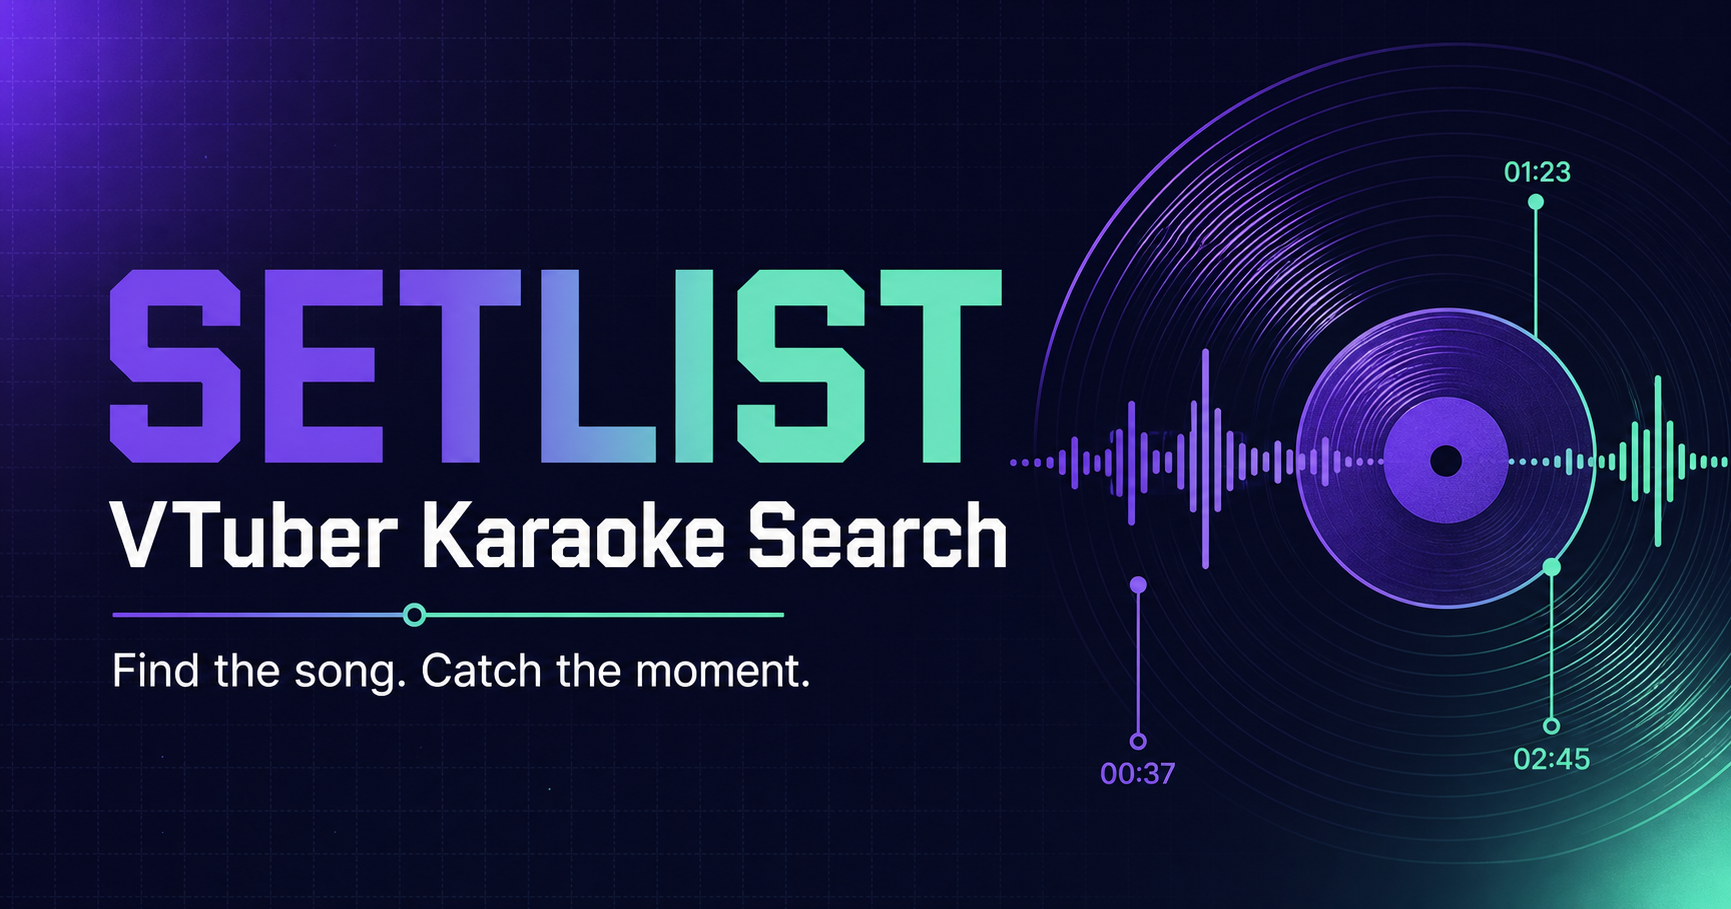
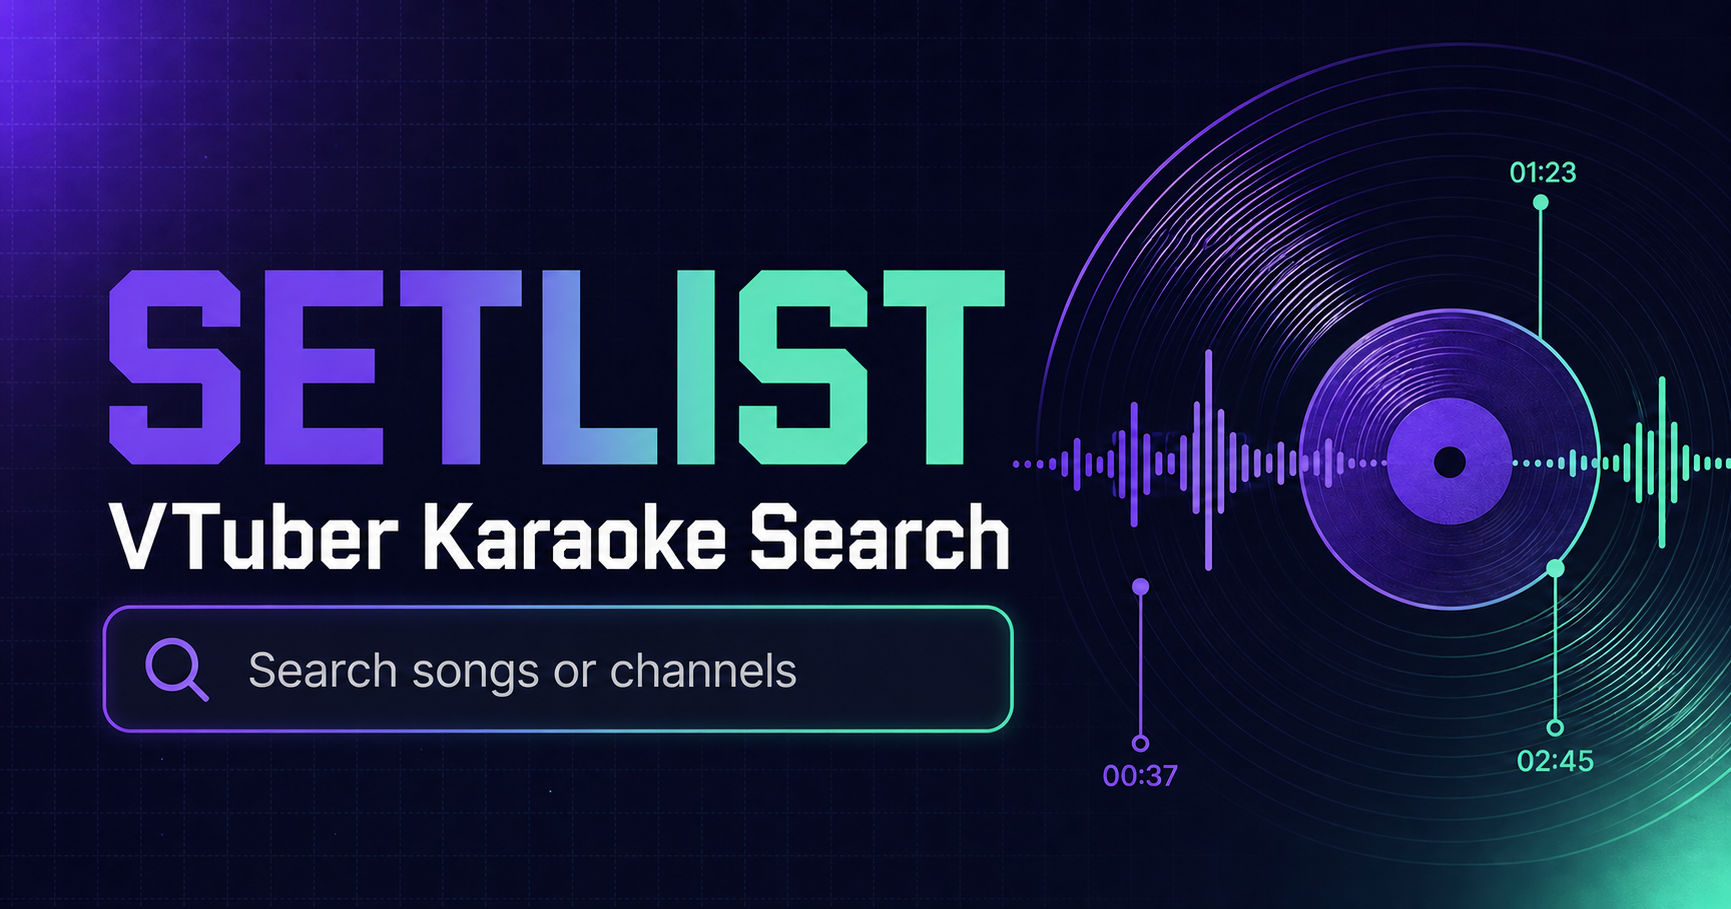
chore(release): v0.4.3 (#39)
* chore(release): v0.4.3

* docs: align copy with search-first design

* fix: correct social preview metadata

---------

diff --git a/frontend/index.html b/frontend/index.html
@@ -26,14 +26,14 @@
     />
     <meta property="og:url" content="__PUBLIC_SITE_URL__" />
     <meta property="og:image" content="__PUBLIC_SITE_URL__/og.png" />
-    <meta property="og:image:width" content="1732" />
+    <meta property="og:image:width" content="1731" />
     <meta property="og:image:height" content="909" />
     <meta property="og:image:alt" content="Setlist — VTuber Karaoke Search" />
     <meta name="twitter:card" content="summary_large_image" />
     <meta name="twitter:title" content="Setlist — VTuber Karaoke Search" />
     <meta
       name="twitter:description"
-      content="Find the song. Catch the moment."
+      content="Search VTuber karaoke setlists and open YouTube at the saved timestamp."
     />
     <meta name="twitter:image" content="__PUBLIC_SITE_URL__/og.png" />
     <meta
@@ -61,7 +61,7 @@
           "@type": "SearchAction",
           "target": {
             "@type": "EntryPoint",
-            "urlTemplate": "__PUBLIC_SITE_URL__/?q={search_term_string}"
+            "urlTemplate": "__PUBLIC_SITE_URL__/search?q={search_term_string}"
           },
           "query-input": "required name=search_term_string"
         }

diff --git a/frontend/README.md b/frontend/README.md
@@ -94,13 +94,13 @@ proxy.
 
 | Path | API |
 |------|-----|
-| `/` | Focused song-title entry point that routes submitted terms to `/search` |
-| `/search` | Submit-only `GET /v1/songs/search`; 500 ms debounced `GET /v1/songs/suggestions` while typing (both support repeated channel, type, and date filters) |
-| `/songs/$songId` | `GET /v1/songs/{id}` |
-| `/channels` | `GET /v1/channels` |
+| `/` | Search-focused entry point with title suggestions, a compact collection summary, and a route to `/search` |
+| `/search` | Grid results from `GET /v1/songs/search`; 500 ms debounced suggestions while typing; repeated channel, type, and date filters apply to both requests |
+| `/songs/$songId` | `GET /v1/songs/{id}`; contextual back navigation restores the prior search or video page |
+| `/channels` | Grid view from `GET /v1/channels` |
 | `/channels/new` | Administrator-only `POST /v1/channels` |
-| `/channels/$channelId` | `GET /v1/channels/{id}` + `/videos`; administrator refresh control |
-| `/videos/$videoId` | `GET /v1/videos/{id}` + `/songs`; administrator reload control |
+| `/channels/$channelId` | Grid view from `GET /v1/channels/{id}` + `/videos`; cards open details and expose a separate untimestamped YouTube action |
+| `/videos/$videoId` | `GET /v1/videos/{id}` + `/songs`; timestamped setlist rows open YouTube and expose a separate song-detail action |
 | `/admin/login` | `GET /v1/auth/session`; `POST /v1/auth/login` |
 | `/status` | Administrator-only `GET /v1/updater/status` |
 | `/summary` | `GET /v1/report/summary` |
@@ -134,6 +134,9 @@ Source messages live in `messages/en.json`, `messages/zh-hant.json`, and
 - `VITE_PUBLIC_SITE_URL` sets the canonical Open Graph origin.
 - `VITE_APP_VERSION` optionally overrides the footer build version.
 - `public/og.png` is the social preview image.
+
+Keep public metadata and social-preview copy factual and search-focused. Avoid
+standalone campaign slogans that are not used in the interface.
 
 Production Compose maps its required `PUBLIC_SITE_URL` to the frontend build.
 The production build derives canonical URLs, structured data, `robots.txt`,

diff --git a/README.md b/README.md
@@ -4,10 +4,10 @@
 
 ![Setlist social preview](frontend/public/og.png)
 
-Setlist is a self-hosted search index for songs performed in VTuber karaoke
-streams. It discovers public YouTube archives, finds timestamped setlist
-comments, extracts song titles, and turns them into searchable links that jump
-to the right moment in the original video.
+Setlist is a self-hosted index of songs performed in VTuber karaoke streams.
+It processes public YouTube archives, extracts song titles from timestamped
+setlist comments, and links each search result to its saved timestamp in the
+original video.
 
 Setlist is maintained as a personal homelab project and is designed for a small
 public deployment. Focused contributions are welcome. Guests can search and
@@ -18,11 +18,12 @@ metadata, reload a video's song list, and view live updater status.
 > index, does not host video or audio, and is not affiliated with YouTube,
 > Google, any VTuber agency, channel, or performer.
 
-## What you get
+## Features
 
-- Fast, paginated song search with channel, content type, and date filters
+- Search-focused home page with title suggestions and a dedicated results page
+- Paginated grid results with one or more channel, content type, and date filters
 - YouTube deep links that open directly at each song's timestamp
-- Channel, video, song-detail, and database-summary browsing
+- Grid-based channel, video, song-detail, and database-summary browsing
 - English, Traditional Chinese, and Japanese UI
 - Pinned/uploader-aware setlist extraction with parsed-song scoring, mixed
   setlist/chapter boundaries, and several timestamp formats

diff --git a/README.zh-Hant.md b/README.zh-Hant.md
@@ -4,9 +4,9 @@
 
 ![Setlist 社群預覽圖](frontend/public/og.png)
 
-Setlist 是可自行託管的 VTuber 歌回曲目搜尋索引。它會發現公開的 YouTube
-封存影片、尋找附有時間戳的歌單留言、抽取歌曲名稱，並建立可直接跳到原始影片
-對應時間點的搜尋連結。
+Setlist 是可自行託管的 VTuber 歌回曲目索引。它會處理公開的 YouTube
+封存影片、從附有時間戳的歌單留言抽取歌曲名稱，並將每筆搜尋結果連結至原始
+影片中已收錄的時間戳。
 
 Setlist 是個人維護的 homelab 專案，並以小型公開部署為設計目標，也歡迎範圍
 明確的貢獻。訪客可以搜尋及瀏覽；單一管理員登入後，則可管理頻道、重新整理
@@ -18,9 +18,10 @@ Setlist 是個人維護的 homelab 專案，並以小型公開部署為設計目
 
 ## 功能特色
 
-- 快速、可分頁的歌曲搜尋，支援頻道、內容類型與日期篩選
+- 以搜尋為主的首頁，提供歌名建議與獨立結果頁面
+- 可分頁的網格搜尋結果，支援多個頻道、內容類型與日期篩選
 - 可直接跳到歌曲時間戳的 YouTube 深層連結
-- 頻道、影片、歌曲詳情與資料庫摘要瀏覽
+- 網格形式的頻道與影片瀏覽，以及歌曲詳情與資料庫摘要
 - 英文、繁體中文與日文介面
 - 優先採用置頂／上傳者留言、依已解析歌曲數評分、辨識混合歌單／章節邊界，並
   支援多種時間戳格式

diff --git a/PLAN.md b/PLAN.md
@@ -222,8 +222,15 @@ Defer LLM until regex path is useful.
 
 - [x] React (Vite + TypeScript) app under `frontend/`
 - [x] TanStack Router + TanStack Query + Zustand (UI prefs) + Paraglide (`en` / `zh-hant` / `ja`) + Tailwind + shadcn/ui
-- [x] Search page → submit-only `GET /v1/songs/search` with pagination and deep links; 500 ms debounced `GET /v1/songs/suggestions` after two characters; advanced filters apply to both
-- [x] Song detail + channel → videos → video songs browse
+- [x] Search-focused home page with title suggestions and a compact database
+  summary; submitted terms route to the dedicated results page
+- [x] Search page → grid results from `GET /v1/songs/search` with pagination and
+  deep links; 500 ms debounced `GET /v1/songs/suggestions` after two characters;
+  advanced filters, including repeated channel selections, apply to both
+- [x] Grid-based channel → videos → video songs browsing, with primary card
+  actions separated from untimestamped or timestamped YouTube actions
+- [x] Contextual detail-page back navigation restores the prior search/filter
+  state and uses a non-empty hierarchy fallback for direct entries
 - [x] Administrator-only live updater status page →
   `GET /v1/updater/status`; guests do not poll it
 - [x] Dev proxy / `VITE_API_BASE_URL` + CORS notes (`APP_ENV=dev` or `CORS_ORIGINS`)
